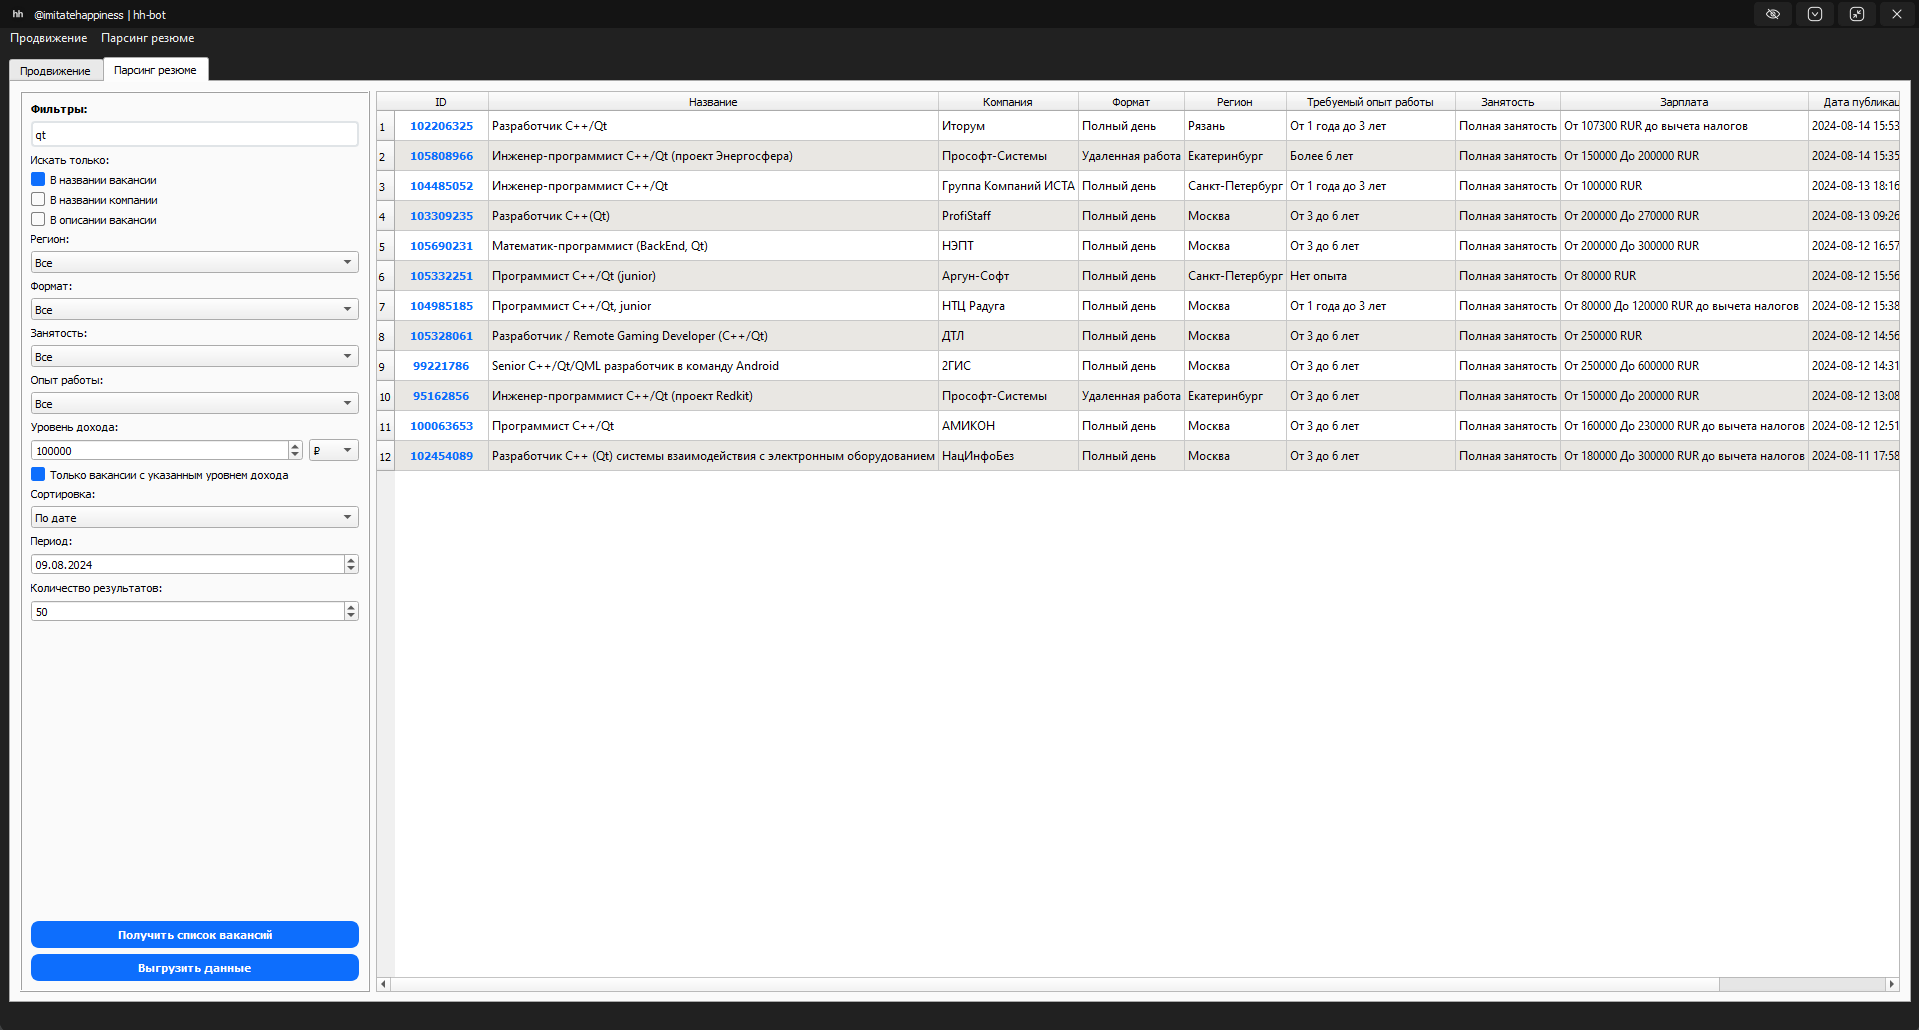
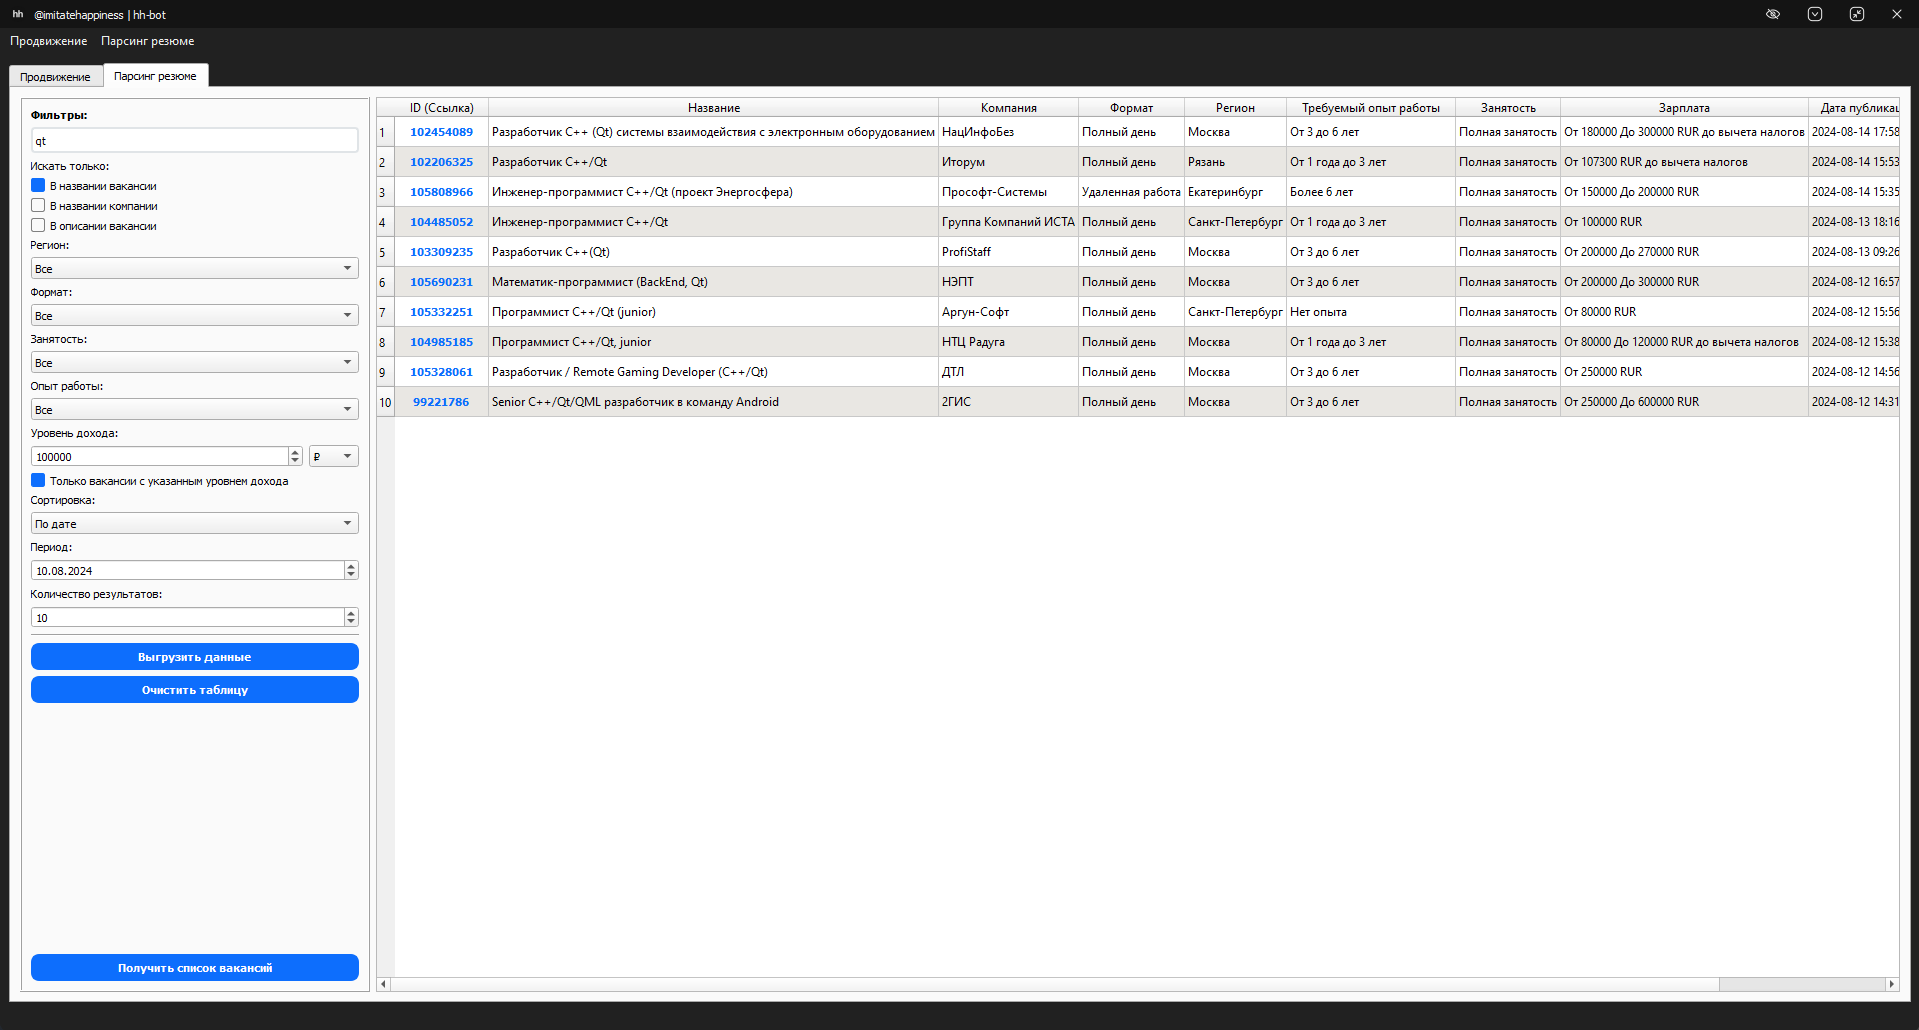
Signed-off-by: IVAN KALENSKY <imitatehappiness@mail.ru>

Changed region(s): [[0.0, 0.0311, 1.0, 0.6835], [0.0, 0.8699, 0.1845, 0.9631], [0.1537, 0.4971, 0.1845, 0.5592]]

diff --git a/README.md b/README.md
@@ -113,70 +113,125 @@ windeployqt --compiler-runtime C:\project_folder\HeadHunterBot.exe
 <?xml version="1.0" encoding="UTF-8"?>
 <Table>
     <Header>
-        <Column index="1">ID</Column>
+        <Column index="1">ID (Ссылка)</Column>
         <Column index="2">Название</Column>
         <Column index="3">Компания</Column>
-        <Column index="4">Требуемый опыт работы</Column>
+        <Column index="4">Формат</Column>
         <Column index="5">Регион</Column>
-        <Column index="6">Формат</Column>
+        <Column index="6">Требуемый опыт работы</Column>
         <Column index="7">Занятость</Column>
         <Column index="8">Зарплата</Column>
         <Column index="9">Дата публикации</Column>
     </Header>
     <Row>
-        <Column index="1" field="URL">https://hh.ru/vacancy/97036056</Column>
-        <Column index="2" field="Название">Программист С++/Qt</Column>
-        <Column index="3" field="Компания">ITGLOBAL.COM</Column>
-        <Column index="4" field="Требуемый опыт работы">Полный день</Column>
-        <Column index="5" field="Регион">Санкт-Петербург</Column>
-        <Column index="6" field="Формат">От 1 года до 3 лет</Column>
-        <Column index="7" field="Занятость">Полная занятость</Column>
-        <Column index="8" field="Зарплата">От 100000 до 300000 RUR</Column>
-        <Column index="9" field="Дата публикации">2024-05-15 16:52:08 +0300</Column>
-    </Row>
-    <Row>
-        <Column index="1" field="URL">https://hh.ru/vacancy/99059414</Column>
+        <Column index="1" field="URL">https://hh.ru/vacancy/102454089</Column>
         <Column index="2" field="Название">Разработчик C++ (Qt) системы взаимодействия с электронным оборудованием</Column>
-        <Column index="3" field="Компания">Крипто-Сервис</Column>
-        <Column index="4" field="Требуемый опыт работы">Полный день</Column>
+        <Column index="3" field="Компания">НацИнфоБез</Column>
+        <Column index="4" field="Формат">Полный день</Column>
         <Column index="5" field="Регион">Москва</Column>
-        <Column index="6" field="Формат">От 3 до 6 лет</Column>
+        <Column index="6" field="Требуемый опыт работы">От 3 до 6 лет</Column>
         <Column index="7" field="Занятость">Полная занятость</Column>
-        <Column index="8" field="Зарплата">От 180000 до 250000 RUR до вычета налогов</Column>
-        <Column index="9" field="Дата публикации">2024-05-15 16:00:11 +0300</Column>
+        <Column index="8" field="Зарплата">От 180000 До 300000 RUR до вычета налогов</Column>
+        <Column index="9" field="Дата публикации">2024-08-14 17:58:29 +0300</Column>
     </Row>
     <Row>
-        <Column index="1" field="URL">https://hh.ru/vacancy/98551646</Column>
-        <Column index="2" field="Название">Инженер-программист C++/Qt, медоборудование</Column>
-        <Column index="3" field="Компания">НИИТФА</Column>
-        <Column index="4" field="Требуемый опыт работы">Полный день</Column>
-        <Column index="5" field="Регион">Москва</Column>
-        <Column index="6" field="Формат">От 3 до 6 лет</Column>
+        <Column index="1" field="URL">https://hh.ru/vacancy/102206325</Column>
+        <Column index="2" field="Название">Разработчик C++/Qt</Column>
+        <Column index="3" field="Компания">Иторум</Column>
+        <Column index="4" field="Формат">Полный день</Column>
+        <Column index="5" field="Регион">Рязань</Column>
+        <Column index="6" field="Требуемый опыт работы">От 1 года до 3 лет</Column>
         <Column index="7" field="Занятость">Полная занятость</Column>
-        <Column index="8" field="Зарплата">От 150000 RUR</Column>
-        <Column index="9" field="Дата публикации">2024-05-15 12:36:47 +0300</Column>
+        <Column index="8" field="Зарплата">От 107300 RUR до вычета налогов</Column>
+        <Column index="9" field="Дата публикации">2024-08-14 15:53:57 +0300</Column>
     </Row>
     <Row>
-        <Column index="1" field="URL">https://hh.ru/vacancy/98436934</Column>
-        <Column index="2" field="Название">Программист / Разработчик С++ (Qt)</Column>
-        <Column index="3" field="Компания">Евротех</Column>
-        <Column index="4" field="Требуемый опыт работы">Полный день</Column>
-        <Column index="5" field="Регион">Москва</Column>
-        <Column index="6" field="Формат">Нет опыта</Column>
+        <Column index="1" field="URL">https://hh.ru/vacancy/105808966</Column>
+        <Column index="2" field="Название">Инженер-программист С++/Qt (проект Энергосфера)</Column>
+        <Column index="3" field="Компания">Прософт-Системы</Column>
+        <Column index="4" field="Формат">Удаленная работа</Column>
+        <Column index="5" field="Регион">Екатеринбург</Column>
+        <Column index="6" field="Требуемый опыт работы">Более 6 лет</Column>
         <Column index="7" field="Занятость">Полная занятость</Column>
-        <Column index="8" field="Зарплата">От 150000 до 220000 RUR</Column>
-        <Column index="9" field="Дата публикации">2024-05-15 09:26:23 +0300</Column>
+        <Column index="8" field="Зарплата">От 150000 До 200000 RUR</Column>
+        <Column index="9" field="Дата публикации">2024-08-14 15:35:06 +0300</Column>
     </Row>
     <Row>
-        <Column index="1" field="URL">https://hh.ru/vacancy/91895639</Column>
+        <Column index="1" field="URL">https://hh.ru/vacancy/104485052</Column>
+        <Column index="2" field="Название">Инженер-программист С++/Qt</Column>
+        <Column index="3" field="Компания">Группа Компаний ИСТА</Column>
+        <Column index="4" field="Формат">Полный день</Column>
+        <Column index="5" field="Регион">Санкт-Петербург</Column>
+        <Column index="6" field="Требуемый опыт работы">От 1 года до 3 лет</Column>
+        <Column index="7" field="Занятость">Полная занятость</Column>
+        <Column index="8" field="Зарплата">От 100000 RUR</Column>
+        <Column index="9" field="Дата публикации">2024-08-13 18:16:36 +0300</Column>
+    </Row>
+    <Row>
+        <Column index="1" field="URL">https://hh.ru/vacancy/103309235</Column>
+        <Column index="2" field="Название">Разработчик С++(Qt)</Column>
+        <Column index="3" field="Компания">ProfiStaff</Column>
+        <Column index="4" field="Формат">Полный день</Column>
+        <Column index="5" field="Регион">Москва</Column>
+        <Column index="6" field="Требуемый опыт работы">От 3 до 6 лет</Column>
+        <Column index="7" field="Занятость">Полная занятость</Column>
+        <Column index="8" field="Зарплата">От 200000 До 270000 RUR</Column>
+        <Column index="9" field="Дата публикации">2024-08-13 09:26:23 +0300</Column>
+    </Row>
+    <Row>
+        <Column index="1" field="URL">https://hh.ru/vacancy/105690231</Column>
+        <Column index="2" field="Название">Математик-программист (BackEnd, Qt)</Column>
+        <Column index="3" field="Компания">НЭПТ</Column>
+        <Column index="4" field="Формат">Полный день</Column>
+        <Column index="5" field="Регион">Москва</Column>
+        <Column index="6" field="Требуемый опыт работы">От 3 до 6 лет</Column>
+        <Column index="7" field="Занятость">Полная занятость</Column>
+        <Column index="8" field="Зарплата">От 200000 До 300000 RUR</Column>
+        <Column index="9" field="Дата публикации">2024-08-12 16:57:15 +0300</Column>
+    </Row>
+    <Row>
+        <Column index="1" field="URL">https://hh.ru/vacancy/105332251</Column>
+        <Column index="2" field="Название">Программист С++/Qt (junior)</Column>
+        <Column index="3" field="Компания">Аргун-Софт</Column>
+        <Column index="4" field="Формат">Полный день</Column>
+        <Column index="5" field="Регион">Санкт-Петербург</Column>
+        <Column index="6" field="Требуемый опыт работы">Нет опыта</Column>
+        <Column index="7" field="Занятость">Полная занятость</Column>
+        <Column index="8" field="Зарплата">От 80000 RUR</Column>
+        <Column index="9" field="Дата публикации">2024-08-12 15:56:31 +0300</Column>
+    </Row>
+    <Row>
+        <Column index="1" field="URL">https://hh.ru/vacancy/104985185</Column>
         <Column index="2" field="Название">Программист С++/Qt, junior</Column>
         <Column index="3" field="Компания">НТЦ Радуга</Column>
-        <Column index="4" field="Требуемый опыт работы">Полный день</Column>
+        <Column index="4" field="Формат">Полный день</Column>
         <Column index="5" field="Регион">Москва</Column>
-        <Column index="6" field="Формат">От 1 года до 3 лет</Column>
+        <Column index="6" field="Требуемый опыт работы">От 1 года до 3 лет</Column>
         <Column index="7" field="Занятость">Полная занятость</Column>
-        <Column index="8" field="Зарплата">От 80000 до 120000 RUR до вычета налогов</Column>
-        <Column index="9" field="Дата публикации">2024-05-14 16:57:09 +0300</Column>
+        <Column index="8" field="Зарплата">От 80000 До 120000 RUR до вычета налогов</Column>
+        <Column index="9" field="Дата публикации">2024-08-12 15:38:17 +0300</Column>
+    </Row>
+    <Row>
+        <Column index="1" field="URL">https://hh.ru/vacancy/105328061</Column>
+        <Column index="2" field="Название">Разработчик / Remote Gaming Developer (C++/Qt)</Column>
+        <Column index="3" field="Компания">ДТЛ</Column>
+        <Column index="4" field="Формат">Полный день</Column>
+        <Column index="5" field="Регион">Москва</Column>
+        <Column index="6" field="Требуемый опыт работы">От 3 до 6 лет</Column>
+        <Column index="7" field="Занятость">Полная занятость</Column>
+        <Column index="8" field="Зарплата">От 250000 RUR</Column>
+        <Column index="9" field="Дата публикации">2024-08-12 14:56:32 +0300</Column>
+    </Row>
+    <Row>
+        <Column index="1" field="URL">https://hh.ru/vacancy/99221786</Column>
+        <Column index="2" field="Название">Senior C++/Qt/QML разработчик в команду Android</Column>
+        <Column index="3" field="Компания">2ГИС</Column>
+        <Column index="4" field="Формат">Полный день</Column>
+        <Column index="5" field="Регион">Москва</Column>
+        <Column index="6" field="Требуемый опыт работы">От 3 до 6 лет</Column>
+        <Column index="7" field="Занятость">Полная занятость</Column>
+        <Column index="8" field="Зарплата">От 250000 До 600000 RUR</Column>
+        <Column index="9" field="Дата публикации">2024-08-12 14:31:10 +0300</Column>
     </Row>
 </Table>
 ```
